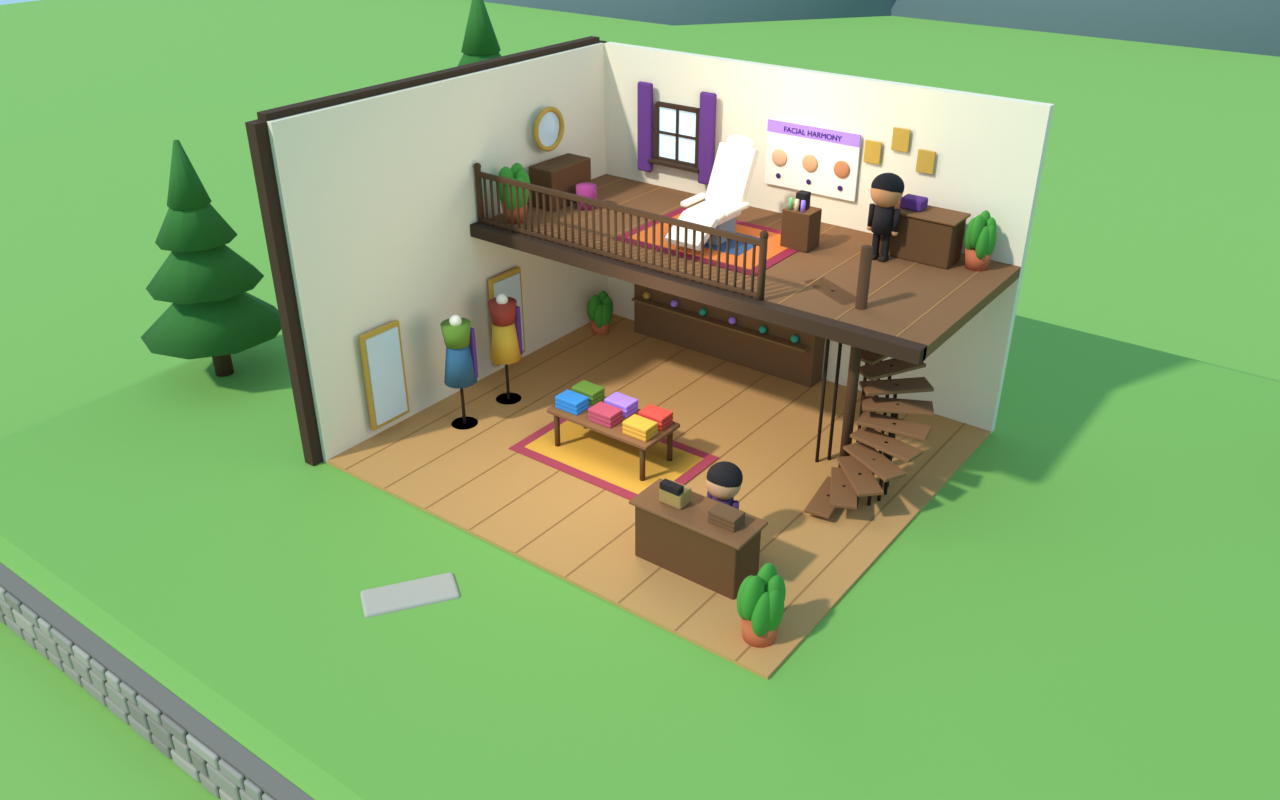
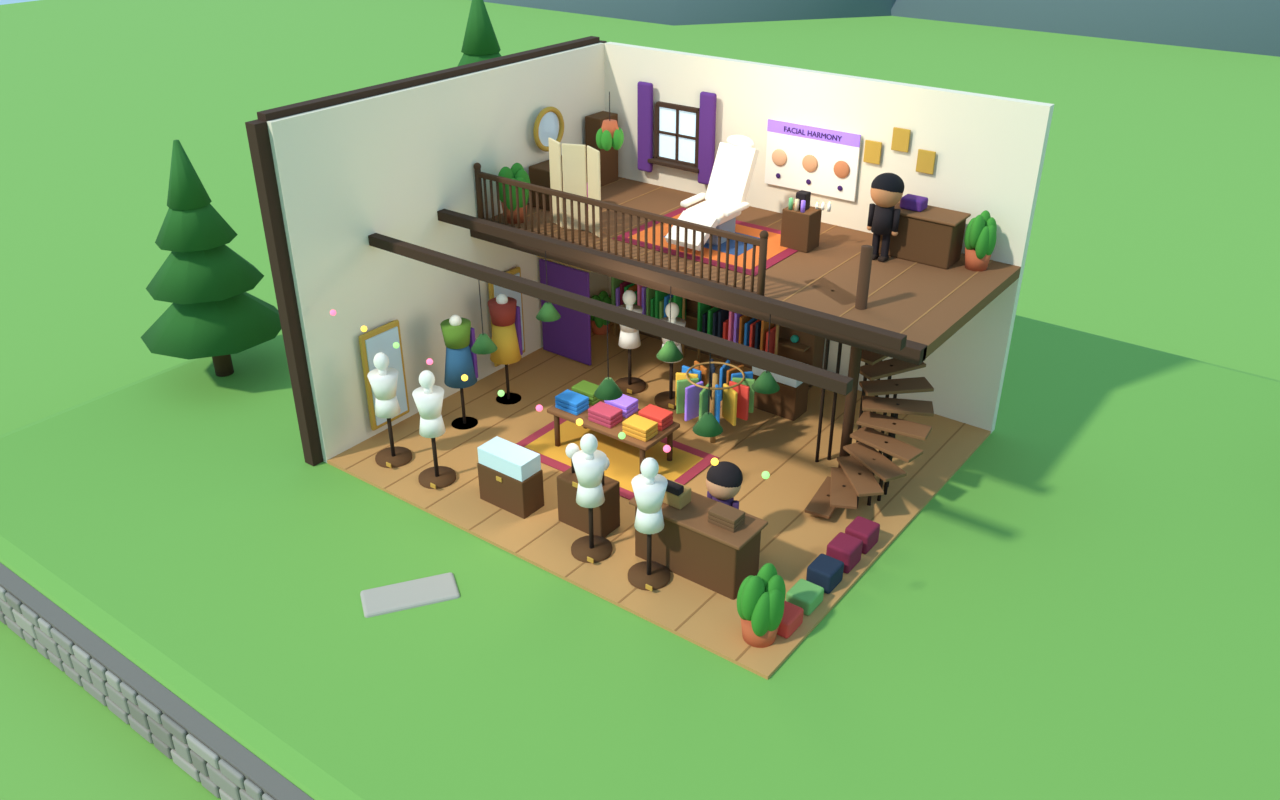
Peak Threads concept, more detail (Andrew): sale displays are blank cream forms, hat heads and empty glass cases with brass tags (dressed in the game from the catalogue); decoration is random clothing on racks and a round rack; tie beams with pendants, a garland, fitting-room curtain, boots; outside
Claude-Session: https://claude.ai/code/session_01AhHjg2zGLBS9XHge4JaZVX

diff --git a/world-refresh/blender/store_threads.py b/world-refresh/blender/store_threads.py
@@ -60,6 +60,22 @@ def build(cut):
         for x, y, s, sd in ((-4.4, 0.4, 1.0, 1), (-3.4, 0.0, 0.8, 2), (2.5, 0.0, 0.8, 3), (4.6, -0.3, 0.9, 4), (-5.6, 1.2, 1.1, 5)): flowers(x, y, B, s, seed=sd)
         cyl(-6.6, 0.6, B, 0.05, 3.6, '#5a3e28', seg=8)
         mesh([(-6.6, 0.6, B + 3.5), (-5.2, 0.4, B + 3.2), (-5.5, 0.5, B + 2.7), (-6.6, 0.6, B + 2.4)], [(0, 1, 2, 3), (3, 2, 1, 0)], '#f2a6c4')
+        # ---- more outside detail: window boxes, porch lanterns, shutters, a blade sign, a chimney, a rain barrel, path lamps, a fence
+        for wx, ww in ((-3.3, 1.5), (1.9, 1.5)):
+            box(wx, Y0 - 0.42, B + 0.62, ww + 0.2, 0.3, 0.22, '#6b4a2b', bevel=0.02)
+            rb = random.Random(int(wx * 10))
+            for k in range(6): ball(wx - ww / 2 + 0.15 + k * ww / 5.5, Y0 - 0.45, B + 0.9, 0.11, '#4f9a3e'); ball(wx - ww / 2 + 0.15 + k * ww / 5.5, Y0 - 0.52, B + 0.98, 0.06, rb.choice(['#e86a8a', '#f2c14e', '#b48cff', '#ffffff']))
+        for x in (-3.2, 3.2):
+            beam((x, 0.5, B + 2.6), (x, 0.25, B + 2.6), 0.04, '#2b2326'); box(x, 0.2, B + 2.15, 0.18, 0.18, 0.32, '#2b2326', bevel=0.02); ball(x, 0.2, B + 2.32, 0.07, '#ffd27a', emit=3)
+        for sg in (-1, 1): box(sg * 0.75, Y0 - 0.32, B + EAVE + 0.35, 0.35, 0.06, 1.1, '#3f6b3a', bevel=0.02)
+        beam((X0 - 0.3, Y0 - 0.2, B + 3.0), (X0 - 1.1, Y0 - 0.2, B + 3.0), 0.06, '#2b2326')
+        box(X0 - 0.75, Y0 - 0.2, B + 2.2, 0.06, 0.7, 0.7, '#efe0b8', bevel=0.03); box(X0 - 0.75, Y0 - 0.2, B + 2.3, 0.07, 0.5, 0.5, '#3f6b3a', bevel=0.02)
+        box(X1 + 3.2, 8.4, B + 3.2, 0.7, 0.7, 3.4, '#8c877e', bevel=0.05); box(X1 + 3.2, 8.4, B + 6.6, 0.85, 0.85, 0.15, '#7f7a72', bevel=0.03)
+        cyl(X1 + 0.6, 2.6, B, 0.32, 0.8, '#6b4a2b', seg=14); torus(X1 + 0.6, 2.6, B + 0.25, 0.32, 0.025, '#2b2326'); torus(X1 + 0.6, 2.6, B + 0.6, 0.32, 0.025, '#2b2326')
+        for (lx, ly, lz) in ((8.0, -6.0, 0.4), (4.2, -2.6, 0.8), (-2.2, -0.4, B)):
+            cyl(lx + 0.9, ly, lz, 0.04, 1.6, '#2b2326', seg=8); box(lx + 0.9, ly, lz + 1.6, 0.2, 0.2, 0.28, '#2b2326', bevel=0.02); ball(lx + 0.9, ly, lz + 1.74, 0.07, '#ffd27a', emit=3)
+        for x in [-11 + i * 1.2 for i in range(8)]: cyl(x, -2.6, B, 0.05, 0.75, '#8a6240', seg=8)
+        beam((-11, -2.6, B + 0.6), (-2.6, -2.6, B + 0.6), 0.06, '#8a6240'); beam((-11, -2.6, B + 0.3), (-2.6, -2.6, B + 0.3), 0.06, '#8a6240')
         roof(X0, X1, Y0, Y1, B + EAVE, B + RIDGE, '#566069', over=0.6, moss=MOSS, seed=1)
     else:
         # cutaway: no roof, just the gable ends' outline
@@ -99,6 +115,39 @@ def build(cut):
     for k in range(3): box(2.9, 3.4, B + 1.06 + k * 0.07, 0.45, 0.3, 0.06, '#7a5a3c', bevel=0.01)  # old books
     figure(2.4, 4.1, B, '#5a3f6b', '#2b2326', '#2b2326', skin='#d9a77f')                         # the clerk
     plant(X1 - 0.5, Y0 + 0.6, B, 1.1); plant(X0 + 0.5, Y1 - 0.9, B, 0.9)
+    # ---- the shop's displays (Andrew): what is FOR SALE goes on BLANK forms and stands, dressed in the game from the catalogue
+    # (cream forms with a brass tag); everything else on display is decoration, random clothes that cannot be bought
+    BLANK, TAG = '#f3efe6', '#c9a24a'
+    def blank_form(x, y, rot=0.0):
+        cyl(x, y, B, 0.32, 0.12, '#6b4a2b', seg=20); cyl(x, y, B + 0.12, 0.035, 0.9, '#3a2a1c', seg=8)
+        cyl(x, y, B + 1.0, 0.22, 0.32, BLANK, r2=0.17, seg=20); cyl(x, y, B + 1.32, 0.17, 0.42, BLANK, r2=0.26, seg=20)
+        cyl(x, y, B + 1.74, 0.07, 0.12, BLANK, seg=12); ball(x, y, B + 1.98, 0.13, BLANK, sz=1.2)
+        box(x + 0.22, y - 0.3, B + 0.12, 0.12, 0.02, 0.08, TAG, bevel=0.005)
+    for x in (-3.6, -2.5, 0.9, 2.0): blank_form(x, 2.75)                                  # four sale forms in the front windows
+    blank_form(-1.9, 7.4); blank_form(-0.9, 7.4)                                          # two more under the loft (the dressed pair by the mirrors are decoration)
+    box(0.4, 3.3, B, 0.9, 0.5, 0.9, '#6b4a2b', bevel=0.03)                                # accessory stand: three blank hat heads
+    for k in range(3): cyl(0.1 + k * 0.3, 3.3, B + 0.9, 0.025, 0.3, '#3a2a1c', seg=8); ball(0.1 + k * 0.3, 3.3, B + 1.3, 0.11, BLANK, sz=1.15)
+    box(0.4, 3.0, B + 0.9, 0.12, 0.02, 0.08, TAG, bevel=0.005)
+    for (cx, cy) in ((-1.0, 3.0), (0.9, 8.4)):                                            # glass cases, empty, for jewellery and glasses for sale
+        box(cx, cy, B, 1.0, 0.5, 0.75, '#6b4a2b', bevel=0.02); box(cx, cy, B + 0.75, 0.96, 0.46, 0.3, '#d9eef5', rough=0.05, bevel=0.01)
+        box(cx, cy - 0.26, B + 0.6, 0.12, 0.02, 0.08, TAG, bevel=0.005)
+    rr = random.Random(77); DEC = ['#e0564a', '#3f8fd9', '#f0c24f', '#7fb36a', '#b48cff', '#ff8fb8', '#2b3a4e', '#c27a3a', '#3fae5a', '#8a2f4a']
+    def rack(x0, x1, y):                                                                  # decoration: a rail of random clothes
+        for x in (x0, x1): cyl(x, y, B, 0.03, 1.55, '#b08d57', seg=8)
+        beam((x0, y, B + 1.5), (x1, y, B + 1.5), 0.04, '#b08d57')
+        n = int((x1 - x0) / 0.12)
+        for i in range(n): box(x0 + 0.1 + i * (x1 - x0 - 0.2) / max(1, n - 1), y, B + 0.65 + rr.uniform(0, 0.2), 0.06, 0.42, 0.8 - rr.uniform(0, 0.2), rr.choice(DEC), bevel=0.02)
+    rack(-3.6, -1.8, 9.1); rack(-1.4, 0.4, 9.1)
+    cyl(0.6, 6.6, B, 0.05, 1.45, '#b08d57', seg=8); torus(0.6, 6.6, B + 1.42, 0.5, 0.02, '#b08d57')     # a round rack of random tops
+    for i in range(14): a = i * 6.283 / 14; box(0.6 + math.cos(a) * 0.5, 6.6 + math.sin(a) * 0.5, B + 0.75, 0.06, 0.4, 0.66, rr.choice(DEC), rot=a + 1.57, bevel=0.02)
+    for k in range(5): box(X1 - 0.35, 3.0 + k * 0.6, B + 0.05, 0.4, 0.45, 0.25 + rr.uniform(0, 0.15), rr.choice(DEC), bevel=0.04)   # boots and boxes along the east wall
+    # the fitting room in the back west corner: a purple curtain on a rail
+    beam((X0 + 0.1, 7.6, B + 2.2), (X0 + 1.5, 7.6, B + 2.2), 0.04, '#b08d57'); box(X0 + 0.8, 7.6, B + 0.1, 1.3, 0.06, 2.05, PURP, bevel=0.03)
+    # tie beams across the double-height front with pendants on cords, and a garland
+    for y in (3.6, 5.2):
+        beam((X0, y, B + LOFT + 0.4), (X1, y, B + LOFT + 0.4), 0.18, TIM)
+        for x in (-2.0, 0.6, 2.4): beam((x, y, B + LOFT + 0.3), (x, y, B + 2.6), 0.015, '#2b2326'); cyl(x, y, B + 2.35, 0.22, 0.25, '#3f6b3a', r2=0.06, seg=16); ball(x, y, B + 2.38, 0.07, '#ffd27a', emit=4)
+    for i in range(12): f = i / 11; ball(X0 + 0.4 + f * (X1 - X0 - 0.8), Y0 + 0.3, B + 2.9 - math.sin(math.pi * f) * 0.3, 0.05, ['#e86a8a', '#f2c14e', '#7fb36a'][i % 3], emit=2)
     # the curved stair up to the loft, at the back east corner
     spiral(3.1, 6.8, B, 1.25, B + LOFT, '#8a6240', n=14, turn=0.7, start=-math.pi / 2)
     # ---- the loft: Belinda's Spa (over the back half)
@@ -133,6 +182,12 @@ def build(cut):
     figure(2.4, 8.9, ZL, '#2b2326', '#2b2326', '#16141c', skin='#c98e62')                           # Belinda
     plant(X0 + 0.5, LY0 + 0.6, ZL, 1.0); plant(3.9, 9.5, ZL, 0.9)
     for k in range(3): box(1.6 + k * 0.5, Y1 - 0.06, ZL + 1.3 + (k % 2) * 0.3, 0.32, 0.03, 0.4, GOLD, bevel=0.02)
+    # spa extras: a towel shelf, candles, a hanging plant, a folding screen
+    box(X0 + 0.3, 9.5, ZL, 0.4, 0.6, 1.4, '#6b4a2b', bevel=0.02)
+    for k in range(3): box(X0 + 0.3, 9.5, ZL + 0.3 + k * 0.4, 0.36, 0.5, 0.18, ['#f7f1e4', '#f2a6c4', '#b48cff'][k], bevel=0.05)
+    for k in range(3): cyl(0.82 + k * 0.12, 8.75, ZL + 0.7, 0.03, 0.08 + k * 0.03, '#f7f1e4', seg=10); ball(0.82 + k * 0.12, 8.75, ZL + 0.8 + k * 0.03, 0.015, '#ffcc66', emit=10)
+    beam((-2.0, 7.0, ZL + 2.6), (-2.0, 7.0, ZL + 2.1), 0.015, '#2b2326'); cyl(-2.0, 7.0, ZL + 1.85, 0.18, 0.25, '#c86f4a', r2=0.12); [ball(-2.0 + 0.15 * math.cos(k), 7.0 + 0.15 * math.sin(k), ZL + 1.8, 0.1, '#4f9a3e', sz=1.8) for k in range(6)]
+    for k in range(3): o = box(-3.2 + k * 0.45, 6.9, ZL, 0.45, 0.04, 1.6, '#e8d2a8', rot=0.4 if k % 2 else -0.4, bevel=0.02)
     if not cut: ball(0, 9.0, ZL + 2.6, 0.18, '#ffd0a0', emit=5)
     lamp(0, 8.0, ZL + 2.4, 120, (1, 0.8, 0.6), 0.6)   # a pendant
     lamp(0, 4.5, B + 3.0, 160, (1, 0.85, 0.65), 0.8)
